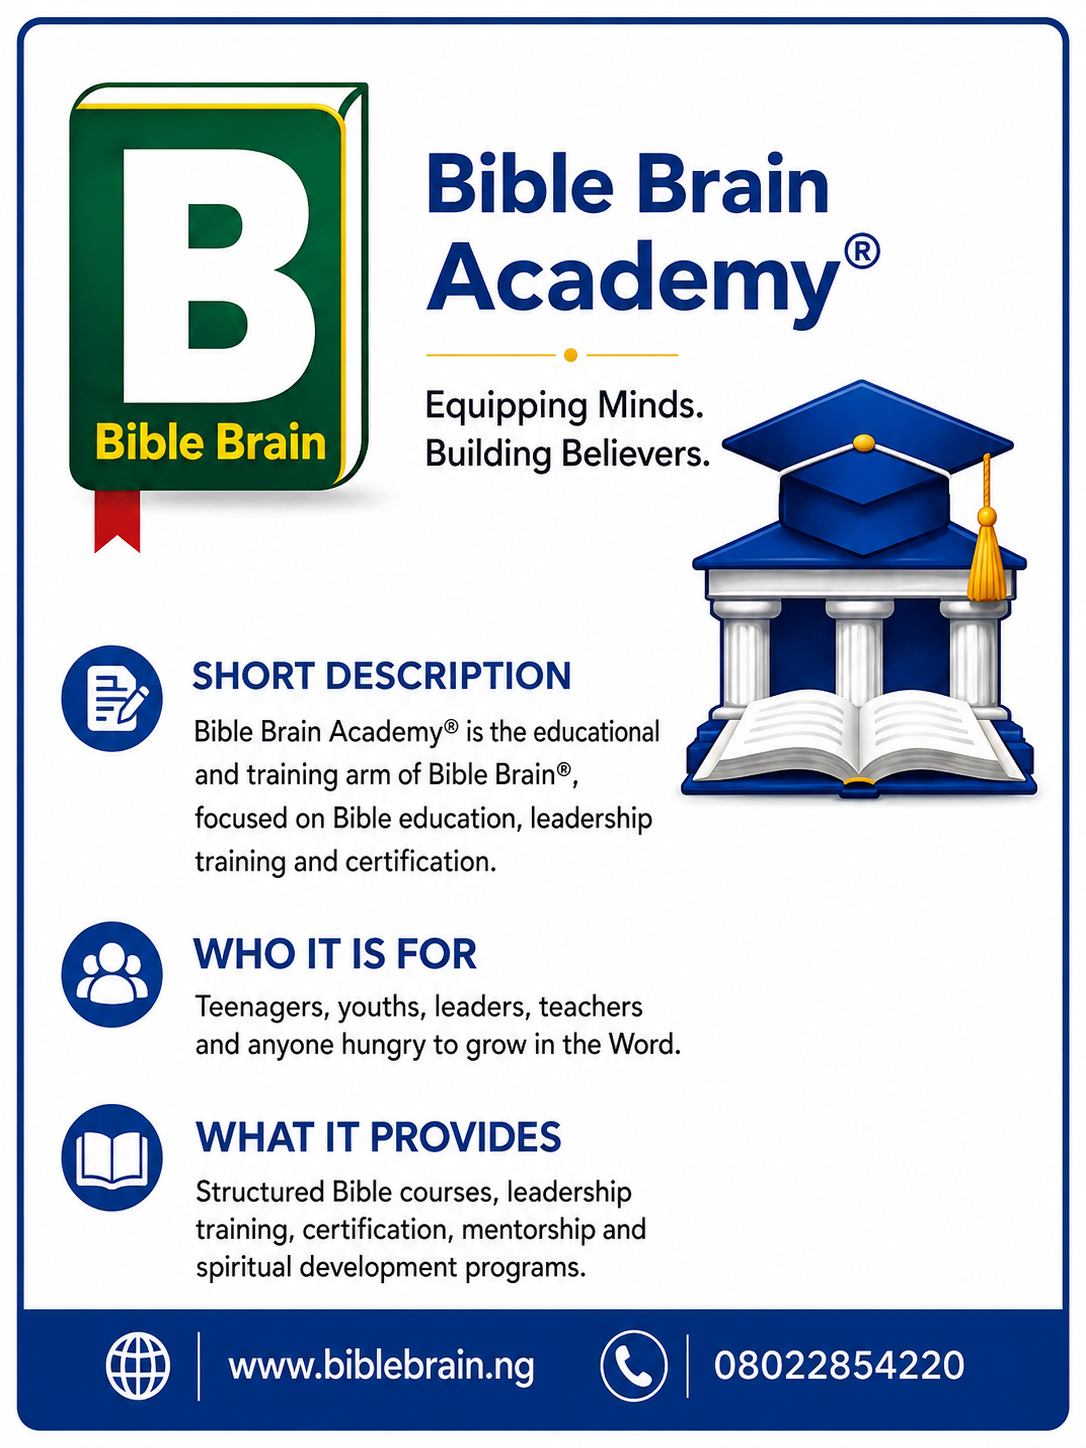
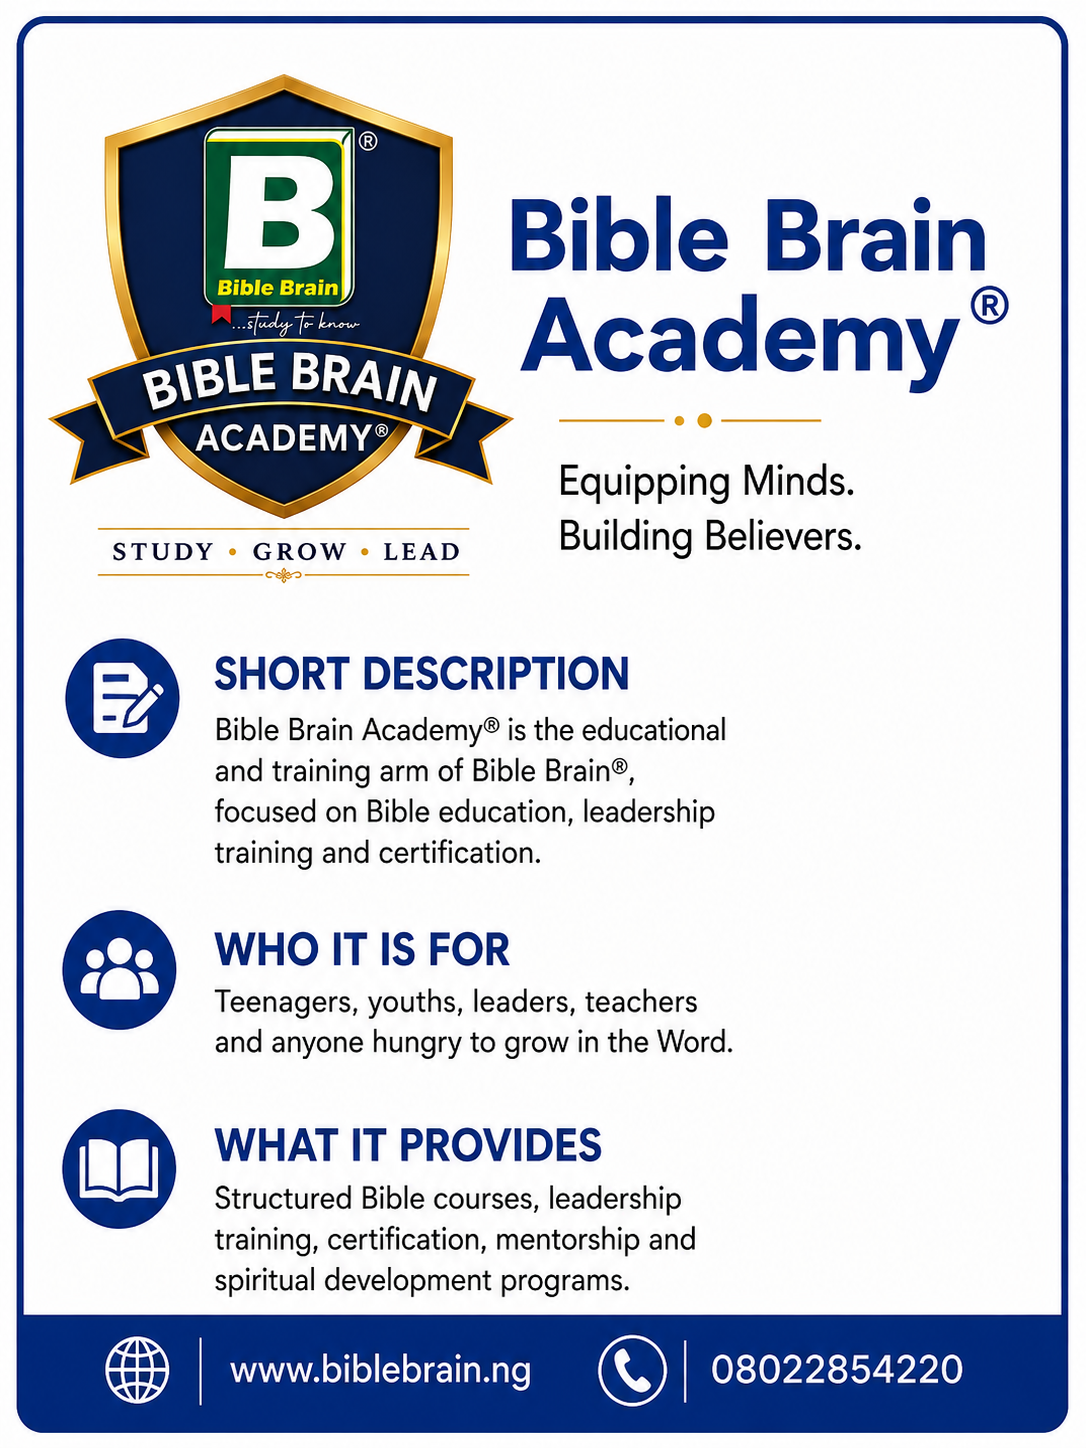
Add YCM Quiz 2026 page and update product flyers
- Embed the official YCM Quiz 2026 Google Form at /ycmquiz2026, with
  flyer artwork in the hero and a footer link
- Replace Bible Brain Academy and Bible Brain TV product images with
  updated flyers

Changed region(s): [[0.0, 0.0, 1.0, 0.9945]]

diff --git a/app/ycmquiz2026/page.tsx b/app/ycmquiz2026/page.tsx
@@ -1,0 +1,84 @@
+import type { Metadata } from "next";
+import Image from "next/image";
+import { Container } from "@/components/layout/Container";
+import { SectionLabel } from "@/components/ui/SectionLabel";
+
+export const metadata: Metadata = {
+  title: "YCM Quiz 2026 — Bible Brain®",
+  description:
+    "Participate in the YCM Quiz 2026. Register and submit your answers through the official quiz form.",
+  alternates: {
+    canonical: "https://www.biblebrain.ng/ycmquiz2026",
+  },
+};
+
+const FORM_URL =
+  "https://docs.google.com/forms/d/e/1FAIpQLSeZUhL-0YY2D0bk5DzJ82617MgK7r6e6wYcixcgDu04ISy_mQ/viewform?embedded=true";
+
+export default function YcmQuiz2026Page() {
+  return (
+    <>
+      <div className="bg-[#0A1F44]">
+        <Container>
+          <div className="flex flex-col items-center gap-10 py-16 sm:py-24 lg:flex-row lg:items-center lg:gap-16 lg:py-28">
+            <div className="w-full max-w-sm shrink-0 lg:w-[36%]">
+              <div className="overflow-hidden rounded-2xl shadow-2xl ring-1 ring-white/10">
+                <Image
+                  src="/images/flyers/ycm-national-bible-challenge-2026-flyer.png"
+                  alt="YCM National Online Bible Challenge 2026 flyer"
+                  width={1024}
+                  height={1536}
+                  className="h-auto w-full object-cover"
+                  sizes="(max-width: 1024px) 90vw, 36vw"
+                  priority
+                />
+              </div>
+            </div>
+            <div className="w-full text-center lg:w-[64%] lg:text-left">
+              <SectionLabel light>Competition</SectionLabel>
+              <h1 className="mt-6 font-display text-4xl font-bold tracking-tight text-white sm:text-5xl lg:text-6xl">
+                YCM Quiz 2026
+              </h1>
+              <p className="mt-6 text-lg text-[#D4AF37]">
+                Take part in the YCM Quiz competition. Complete the form below to
+                register and submit your entries.
+              </p>
+            </div>
+          </div>
+        </Container>
+      </div>
+
+      <div className="bg-[#F5F5F5] py-16 sm:py-24">
+        <Container>
+          <div className="mx-auto max-w-5xl">
+            <div className="overflow-hidden rounded-2xl border border-[#0A1F44]/10 bg-white shadow-sm">
+              <div className="aspect-[4/3] w-full bg-[#0A1F44] sm:aspect-[5/3] md:aspect-[16/7] lg:aspect-[16/6]">
+                <iframe
+                  title="YCM Quiz 2026 Form"
+                  src={FORM_URL}
+                  className="h-full w-full border-0"
+                  frameBorder={0}
+                  scrolling="no"
+                />
+              </div>
+            </div>
+            <div className="mt-8 text-center">
+              <p className="text-sm text-[#0A1F44]/60">
+                Alternatively,{" "}
+                <a
+                  href="https://forms.gle/ESKvGEhBv1YyXThu5"
+                  target="_blank"
+                  rel="noopener noreferrer"
+                  className="font-medium text-[#D4AF37] hover:text-[#b8960c]"
+                >
+                  open the form in a new window
+                </a>
+                .
+              </p>
+            </div>
+          </div>
+        </Container>
+      </div>
+    </>
+  );
+}

diff --git a/components/layout/Footer.tsx b/components/layout/Footer.tsx
@@ -8,6 +8,7 @@ const quickLinks = [
   { label: "NNTVBC", href: "/nntvbc" },
   { label: "Programmes", href: "/#programmes" },
   { label: "Media", href: "/#media" },
+  { label: "YCM Quiz 2026", href: "/ycmquiz2026" },
   { label: "Partner", href: "/partner" },
   { label: "Contact", href: "/#contact" },
 ];
